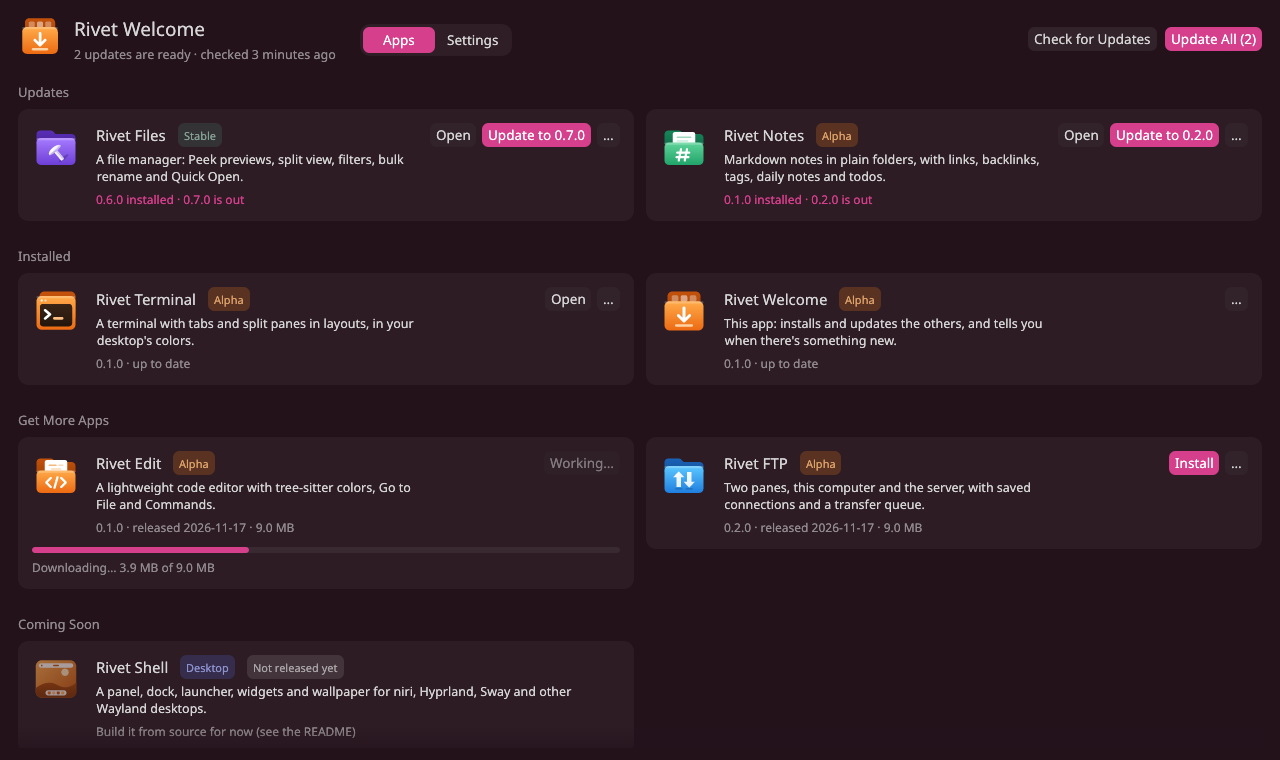
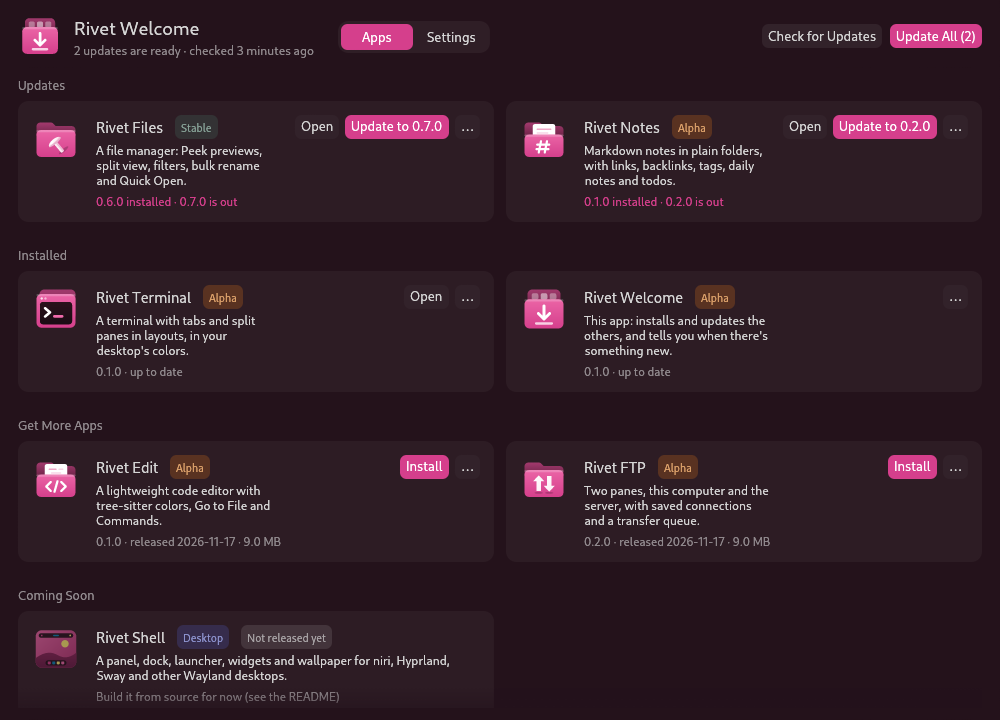
Use Aaron's Welcome screenshot and even out the app cards.
The Welcome picture is the 1000x720 PNG as sent, shown at its own size up to the column width. Cards in a row stretch to the same height, and the screenshots share one aspect ratio.

diff --git a/src/styles/global.css b/src/styles/global.css
@@ -533,9 +533,16 @@ p {
 .cards {
   list-style: none;
   display: grid;
+  align-items: stretch;
   gap: 1rem;
   margin: 2.25rem 0 0;
   padding: 0;
+}
+
+.cards > li {
+  display: flex;
+  margin: 0;
+  min-height: 100%;
 }
 
 .card {
@@ -543,7 +550,8 @@ p {
   flex-direction: column;
   align-items: stretch;
   gap: 0;
-  min-height: 100%;
+  width: 100%;
+  height: 100%;
   padding: 0;
   overflow: hidden;
   border: 1px solid var(--line);
@@ -560,12 +568,17 @@ p {
   display: block;
   width: 100%;
   height: auto;
+  aspect-ratio: 8 / 5;
+  object-fit: cover;
+  object-position: top center;
+  flex: none;
   border-bottom: 1px solid var(--line);
   background: var(--code);
 }
 
 .card-copy {
   display: flex;
+  flex: 1;
   flex-direction: column;
   align-items: flex-start;
   gap: 0.7rem;
@@ -741,7 +754,8 @@ p {
 
 .shot img {
   display: block;
-  width: 100%;
+  width: auto;
+  max-width: 100%;
   height: auto;
   border: 1px solid var(--line);
   border-radius: 16px;
@@ -976,7 +990,7 @@ a {
 @media (min-width: 800px) {
   .cards {
     grid-template-columns: 1fr 1fr;
-    align-items: start;
+    align-items: stretch;
   }
 
   .pair {
